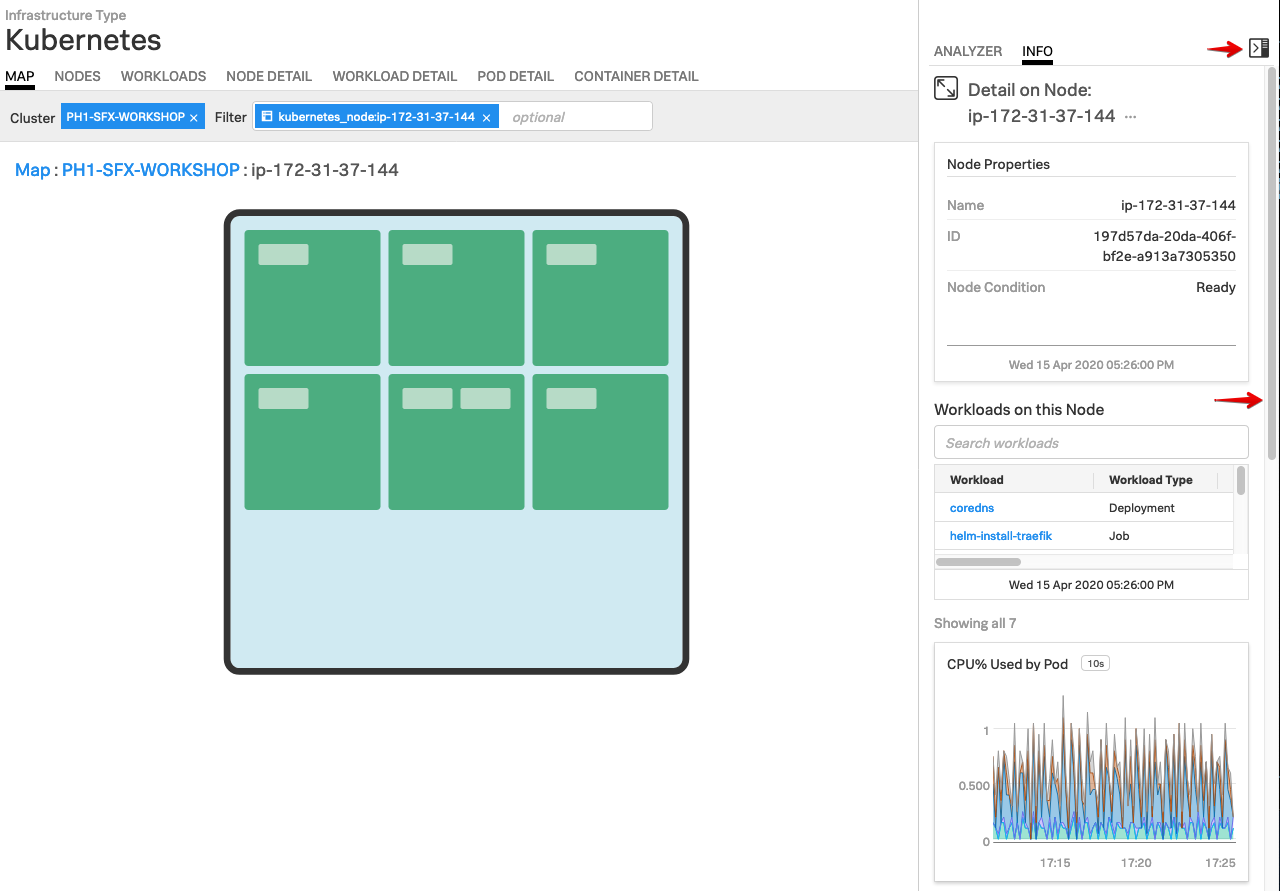
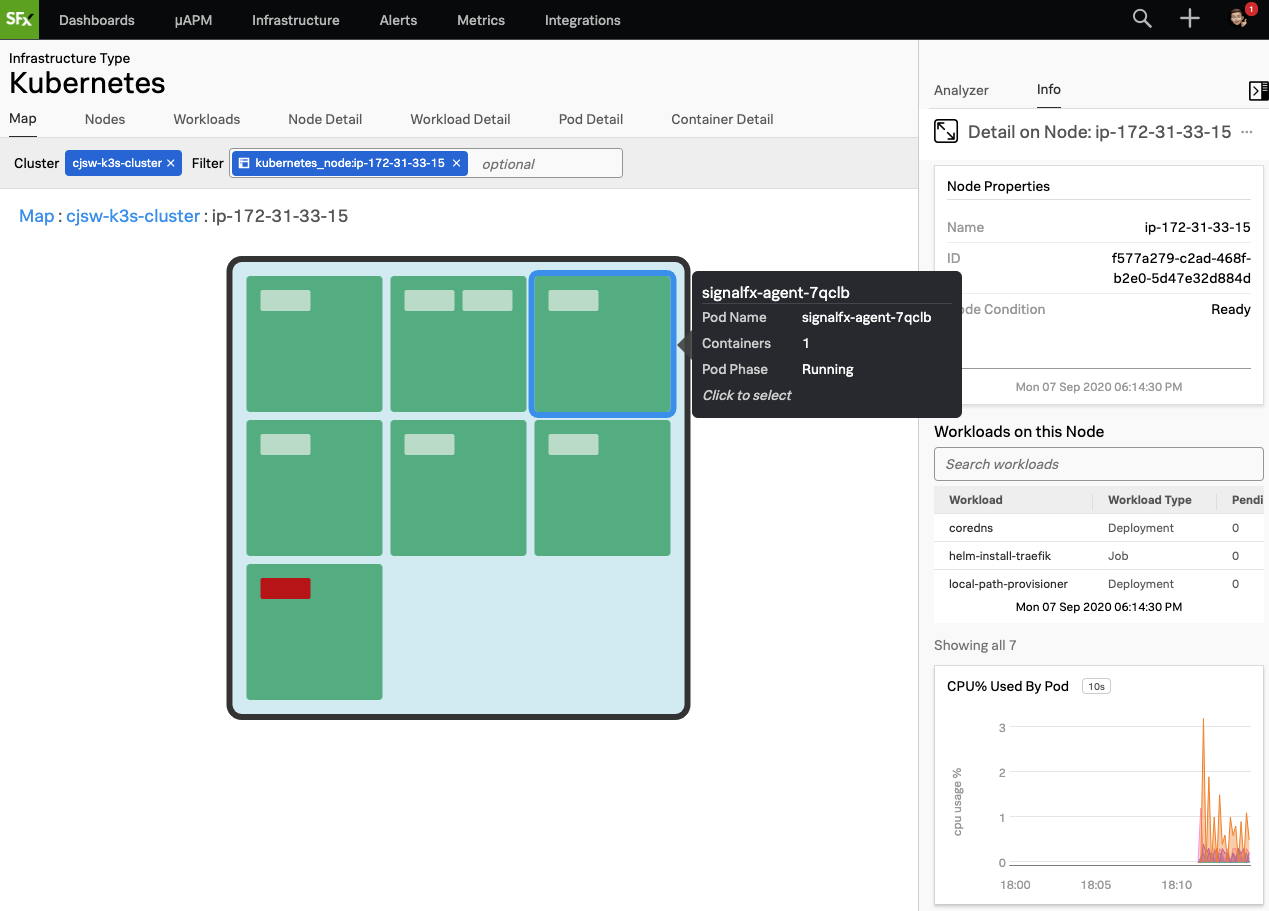
Updated K8s screenshots

diff --git a/docs/smartagent/k3s.md b/docs/smartagent/k3s.md
@@ -148,9 +148,7 @@ Validate that your cluster is discovered and reporting by finding your cluster (
     echo $(hostname)-k3s-cluster
     ```
 
-!!! note "replace screenshot"
-
-![K8S Clusters Filter](../images/smartagent/selecting-k3-cluster.png)
+![K8S Clusters Filter](../images/smartagent/selecting-k3s-cluster.png)
 
 To examine the health of your node, first click on the blue cross ![blue cross](../images/smartagent/blue-cross.png) on your cluster.
 
@@ -158,8 +156,6 @@ This will drill down to the node level.  Next, open the side bar by clicking on 
 
 Once it is open, you can use the slider on the side to explore the various charts relevant to your cluster/node: CPU, Memory, Network, Events etc.
 
-!!! note "replace screenshot"
-
 ![Sidebar metrics](../images/smartagent/explore-metrics.png)
 
-[^1]: Access tokens (sometimes called org tokens) are long-lived organization-level tokens. By default, these tokens persist for 5 years, and thus are suitable for embedding into emitters that send data points over long periods of time, or for any long-running scripts that call the SignalFx API.
+[^1]: Access Tokens (sometimes called Org Tokens) are long-lived organization-level tokens. By default, these tokens persist for 5 years, and thus are suitable for embedding into emitters that send data points over long periods of time, or for any long-running scripts that call the SignalFx API.
